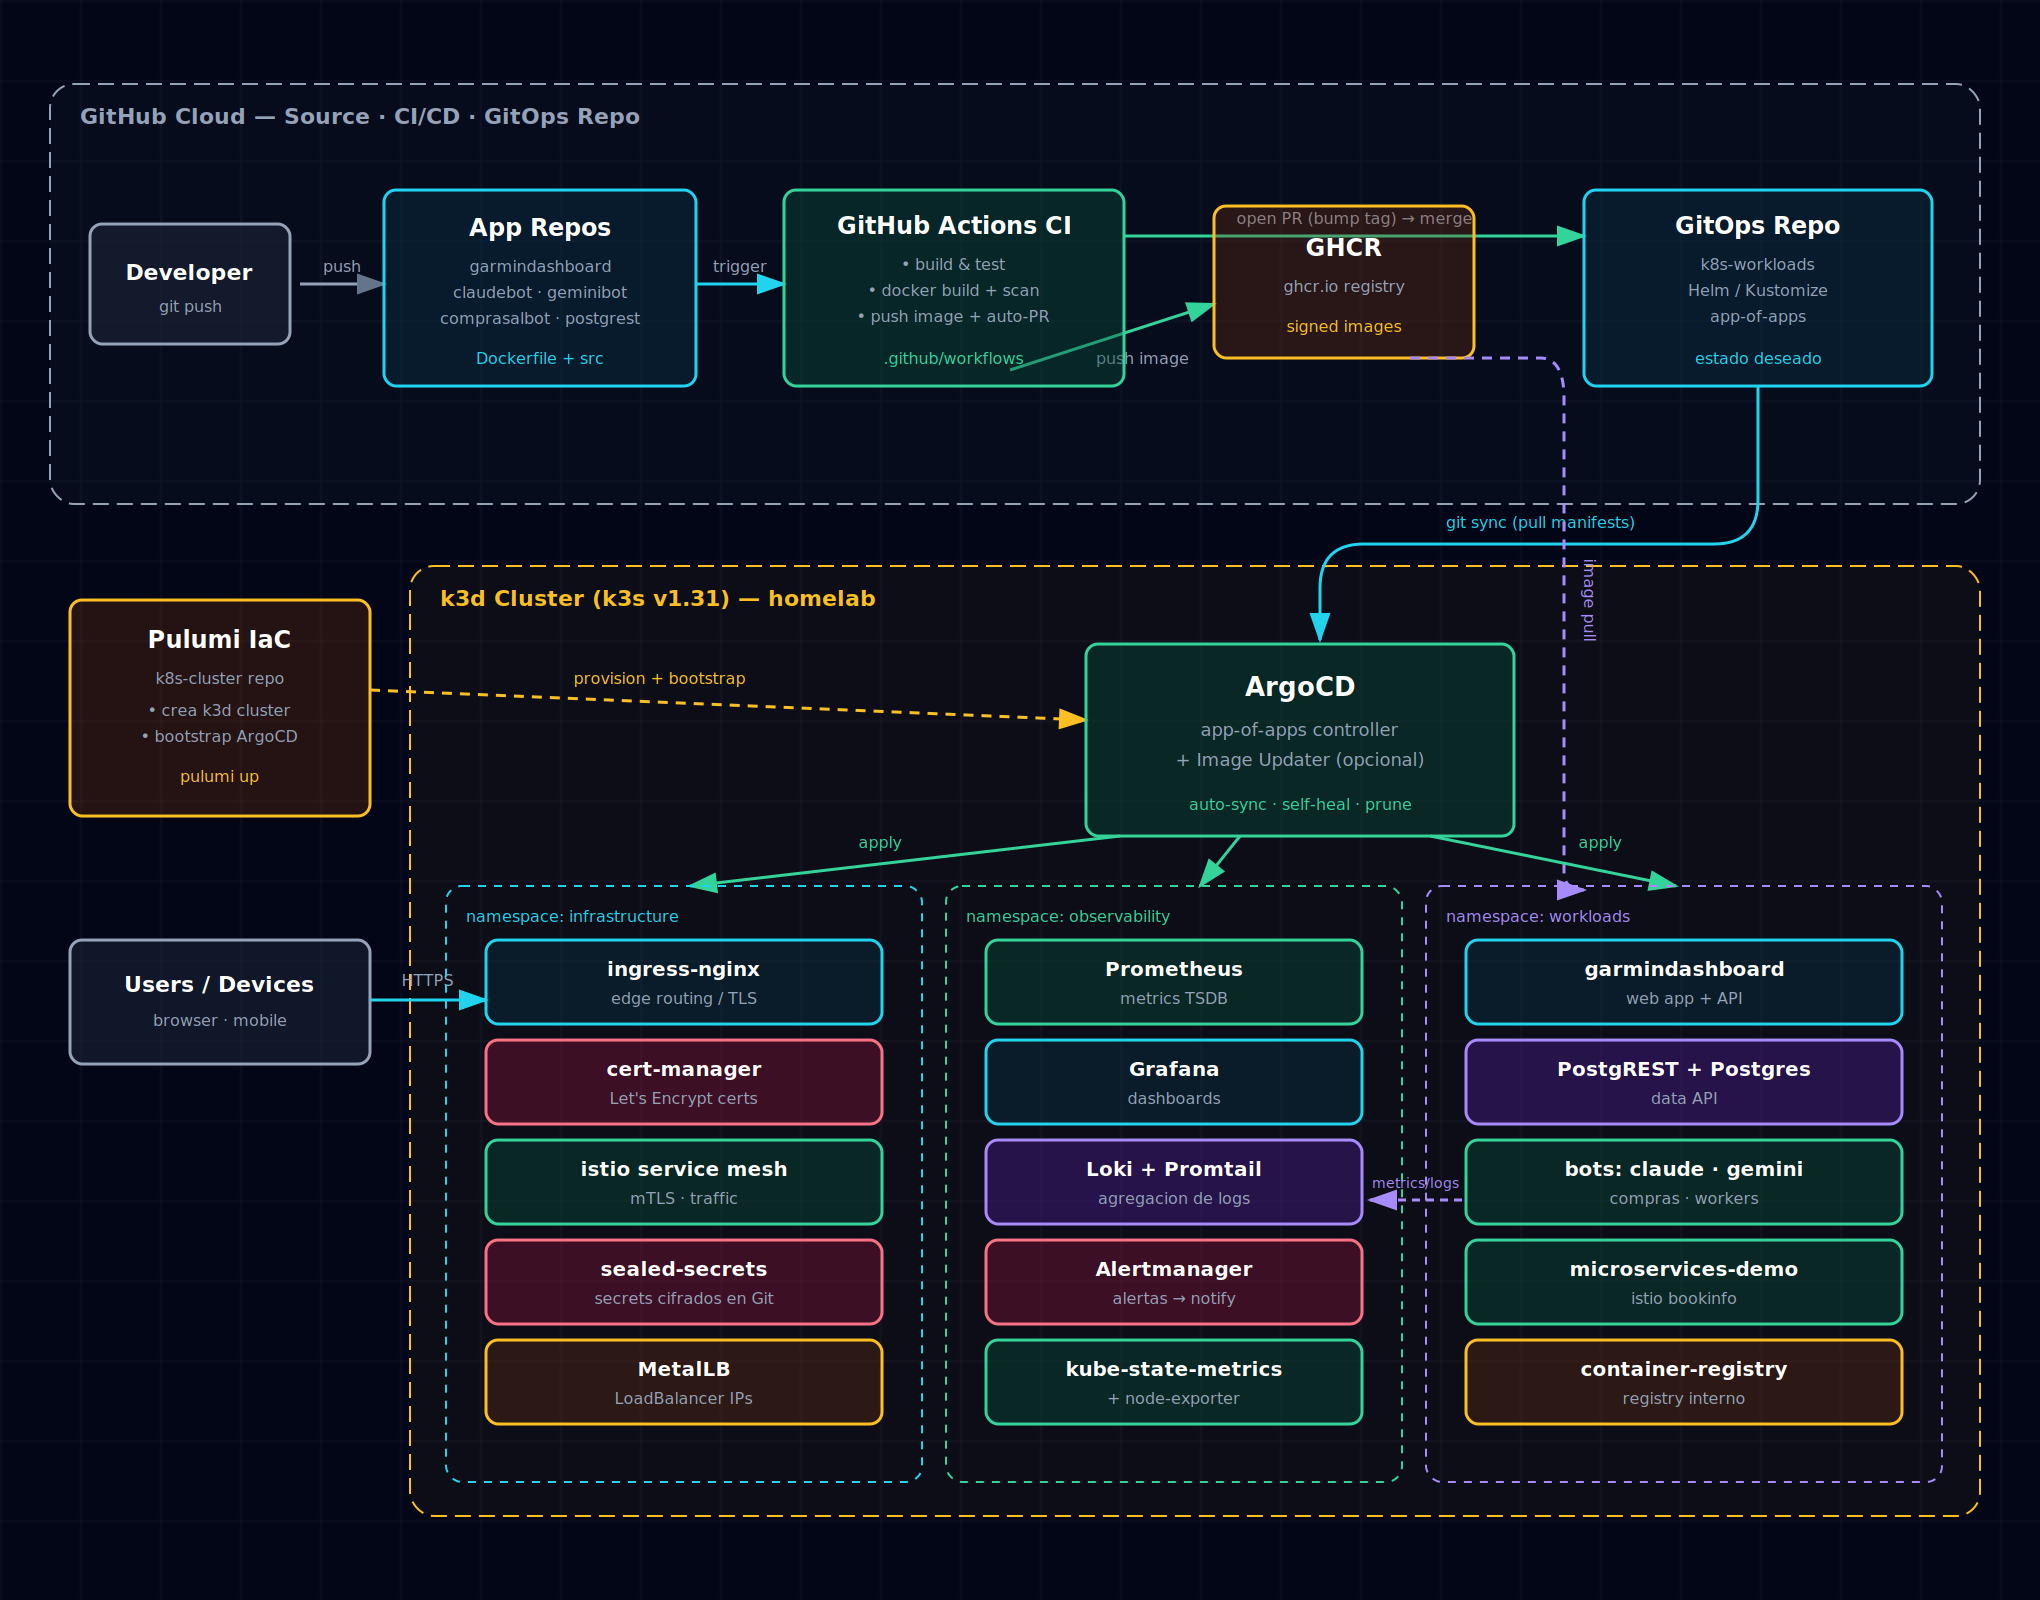
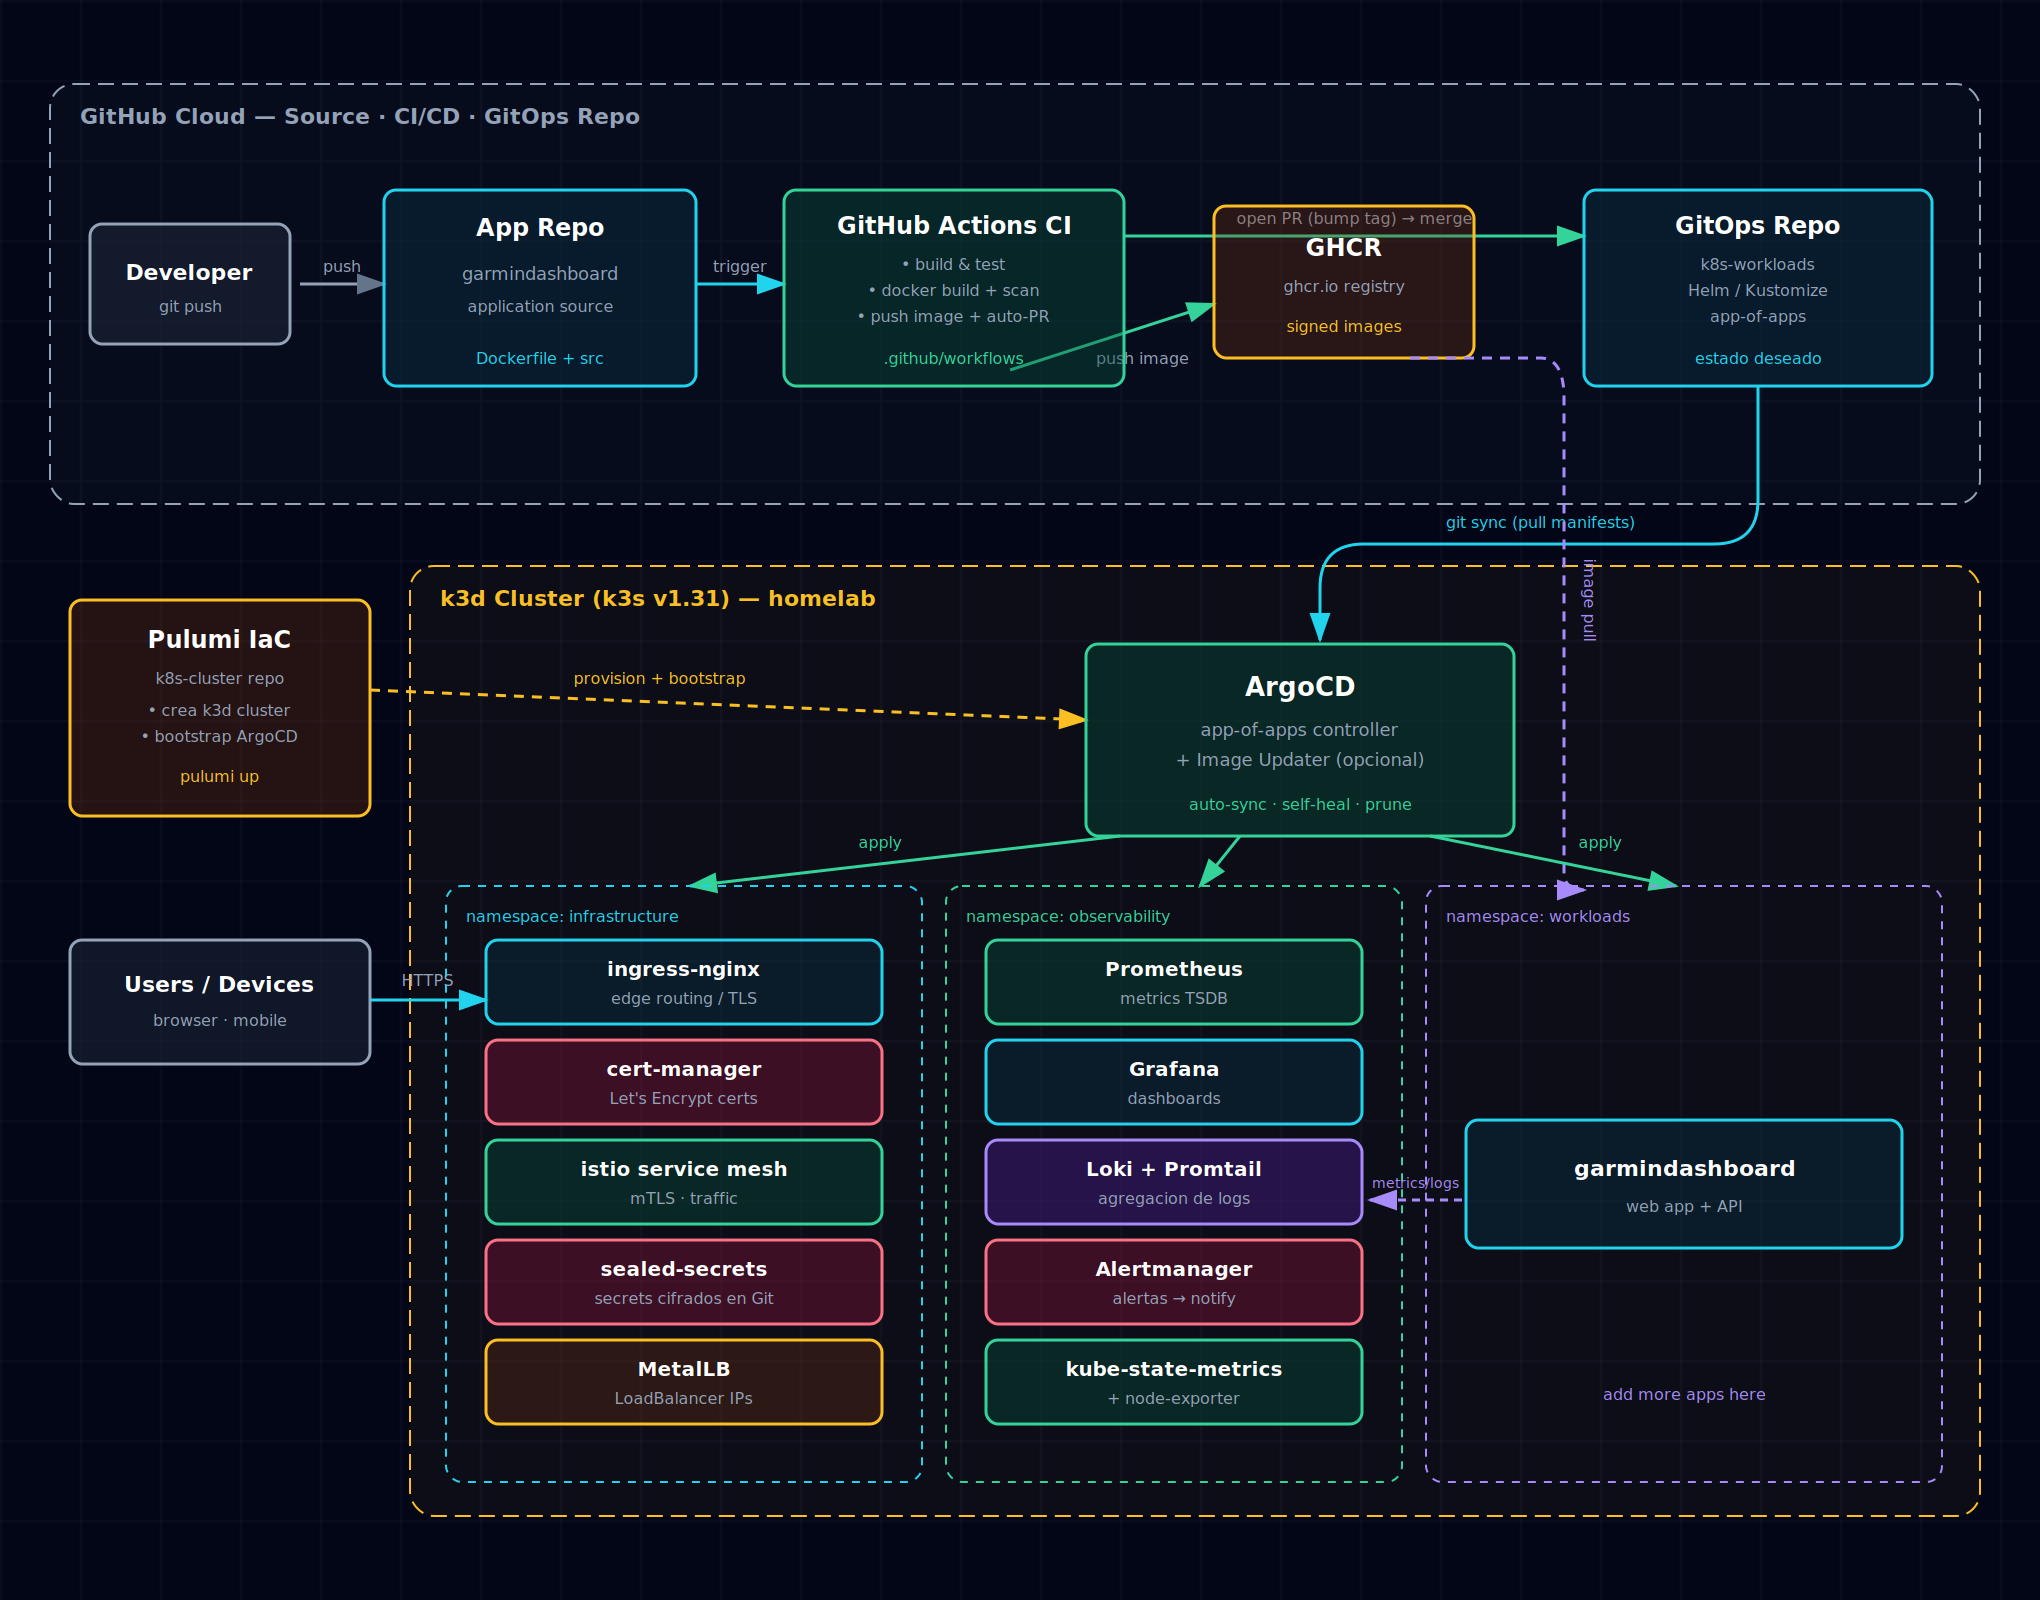
docs: workloads -> only garmindashboard (diagram + README)

Changed region(s): [[0.7103, 0.5938, 0.9574, 0.9062], [0.2162, 0.125, 0.3088, 0.2188]]

diff --git a/docs/architecture.html b/docs/architecture.html
@@ -75,10 +75,9 @@
 
         <!-- App Repos -->
         <rect x="192" y="95" width="156" height="98" rx="6" fill="rgba(8,51,68,0.4)" stroke="#22d3ee" stroke-width="1.5"/>
-        <text x="270" y="118" fill="white" font-size="12" font-weight="600" text-anchor="middle">App Repos</text>
-        <text x="270" y="136" fill="#94a3b8" font-size="8" text-anchor="middle">garmindashboard</text>
-        <text x="270" y="149" fill="#94a3b8" font-size="8" text-anchor="middle">claudebot &middot; geminibot</text>
-        <text x="270" y="162" fill="#94a3b8" font-size="8" text-anchor="middle">comprasalbot &middot; postgrest</text>
+        <text x="270" y="118" fill="white" font-size="12" font-weight="600" text-anchor="middle">App Repo</text>
+        <text x="270" y="140" fill="#94a3b8" font-size="9" text-anchor="middle">garmindashboard</text>
+        <text x="270" y="156" fill="#94a3b8" font-size="8" text-anchor="middle">application source</text>
         <text x="270" y="182" fill="#22d3ee" font-size="8" text-anchor="middle">Dockerfile + src</text>
 
         <!-- GitHub Actions -->
@@ -191,21 +190,10 @@
         <!-- ===================== NAMESPACE: WORKLOADS ===================== -->
         <rect x="713" y="443" width="258" height="298" rx="8" fill="transparent" stroke="#a78bfa" stroke-width="1" stroke-dasharray="4,4"/>
         <text x="723" y="461" fill="#a78bfa" font-size="8">namespace: workloads</text>
-        <rect x="733" y="470" width="218" height="42" rx="6" fill="rgba(8,51,68,0.4)" stroke="#22d3ee" stroke-width="1.5"/>
-        <text x="842" y="488" fill="white" font-size="10" font-weight="600" text-anchor="middle">garmindashboard</text>
-        <text x="842" y="502" fill="#94a3b8" font-size="8" text-anchor="middle">web app + API</text>
-        <rect x="733" y="520" width="218" height="42" rx="6" fill="rgba(76,29,149,0.4)" stroke="#a78bfa" stroke-width="1.5"/>
-        <text x="842" y="538" fill="white" font-size="10" font-weight="600" text-anchor="middle">PostgREST + Postgres</text>
-        <text x="842" y="552" fill="#94a3b8" font-size="8" text-anchor="middle">data API</text>
-        <rect x="733" y="570" width="218" height="42" rx="6" fill="rgba(6,78,59,0.4)" stroke="#34d399" stroke-width="1.5"/>
-        <text x="842" y="588" fill="white" font-size="10" font-weight="600" text-anchor="middle">bots: claude &middot; gemini</text>
-        <text x="842" y="602" fill="#94a3b8" font-size="8" text-anchor="middle">compras &middot; workers</text>
-        <rect x="733" y="620" width="218" height="42" rx="6" fill="rgba(6,78,59,0.4)" stroke="#34d399" stroke-width="1.5"/>
-        <text x="842" y="638" fill="white" font-size="10" font-weight="600" text-anchor="middle">microservices-demo</text>
-        <text x="842" y="652" fill="#94a3b8" font-size="8" text-anchor="middle">istio bookinfo</text>
-        <rect x="733" y="670" width="218" height="42" rx="6" fill="rgba(120,53,15,0.3)" stroke="#fbbf24" stroke-width="1.5"/>
-        <text x="842" y="688" fill="white" font-size="10" font-weight="600" text-anchor="middle">container-registry</text>
-        <text x="842" y="702" fill="#94a3b8" font-size="8" text-anchor="middle">registry interno</text>
+        <rect x="733" y="560" width="218" height="64" rx="6" fill="rgba(8,51,68,0.4)" stroke="#22d3ee" stroke-width="1.5"/>
+        <text x="842" y="588" fill="white" font-size="11" font-weight="600" text-anchor="middle">garmindashboard</text>
+        <text x="842" y="606" fill="#94a3b8" font-size="8" text-anchor="middle">web app + API</text>
+        <text x="842" y="700" fill="#a78bfa" font-size="8" text-anchor="middle" font-style="italic">add more apps here</text>
 
         <!-- observability <- workloads (metrics/logs) -->
         <line x1="731" y1="600" x2="685" y2="600" stroke="#a78bfa" stroke-width="1.5" stroke-dasharray="4,3" marker-end="url(#ah-violet)"/>

diff --git a/README.md b/README.md
@@ -80,7 +80,7 @@ That's it. The whole platform stands up from Git.
 | **CI/CD** | GitHub Actions (reusable workflow), GHCR, Trivy scan |
 | **Networking** | ingress-nginx, MetalLB, cert-manager, istio |
 | **Observability** | Prometheus, Grafana, Loki + Promtail, Alertmanager |
-| **Workloads** | garmindashboard, postgrest, bots, microservices-demo |
+| **Workloads** | garmindashboard |
 
 ---
 
